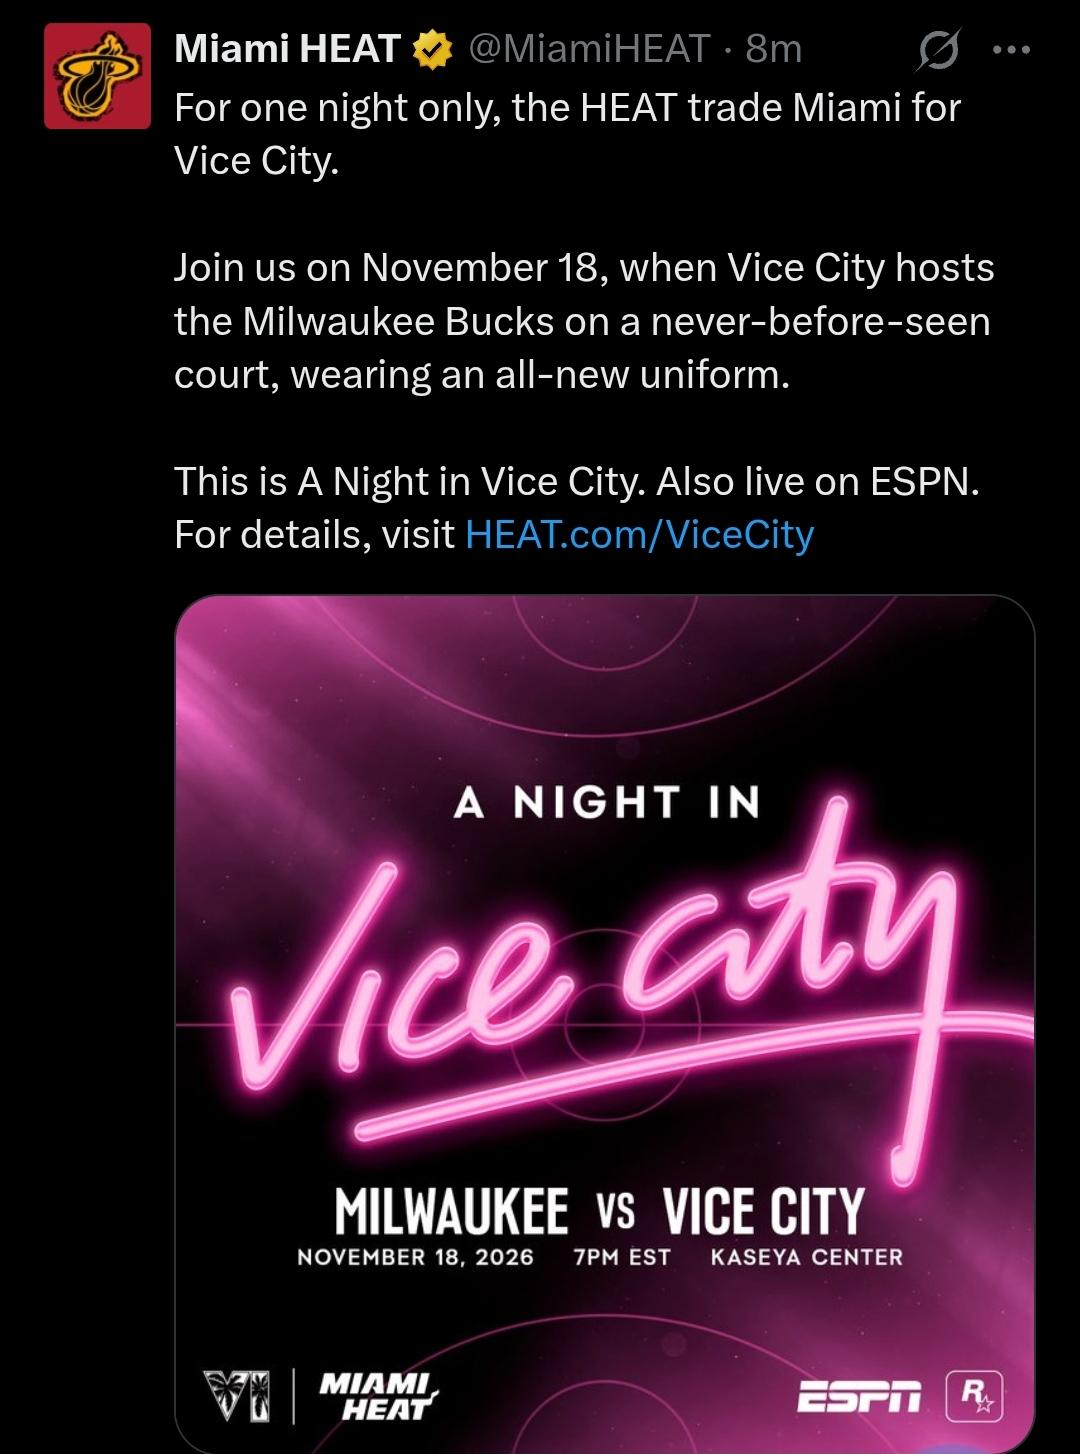
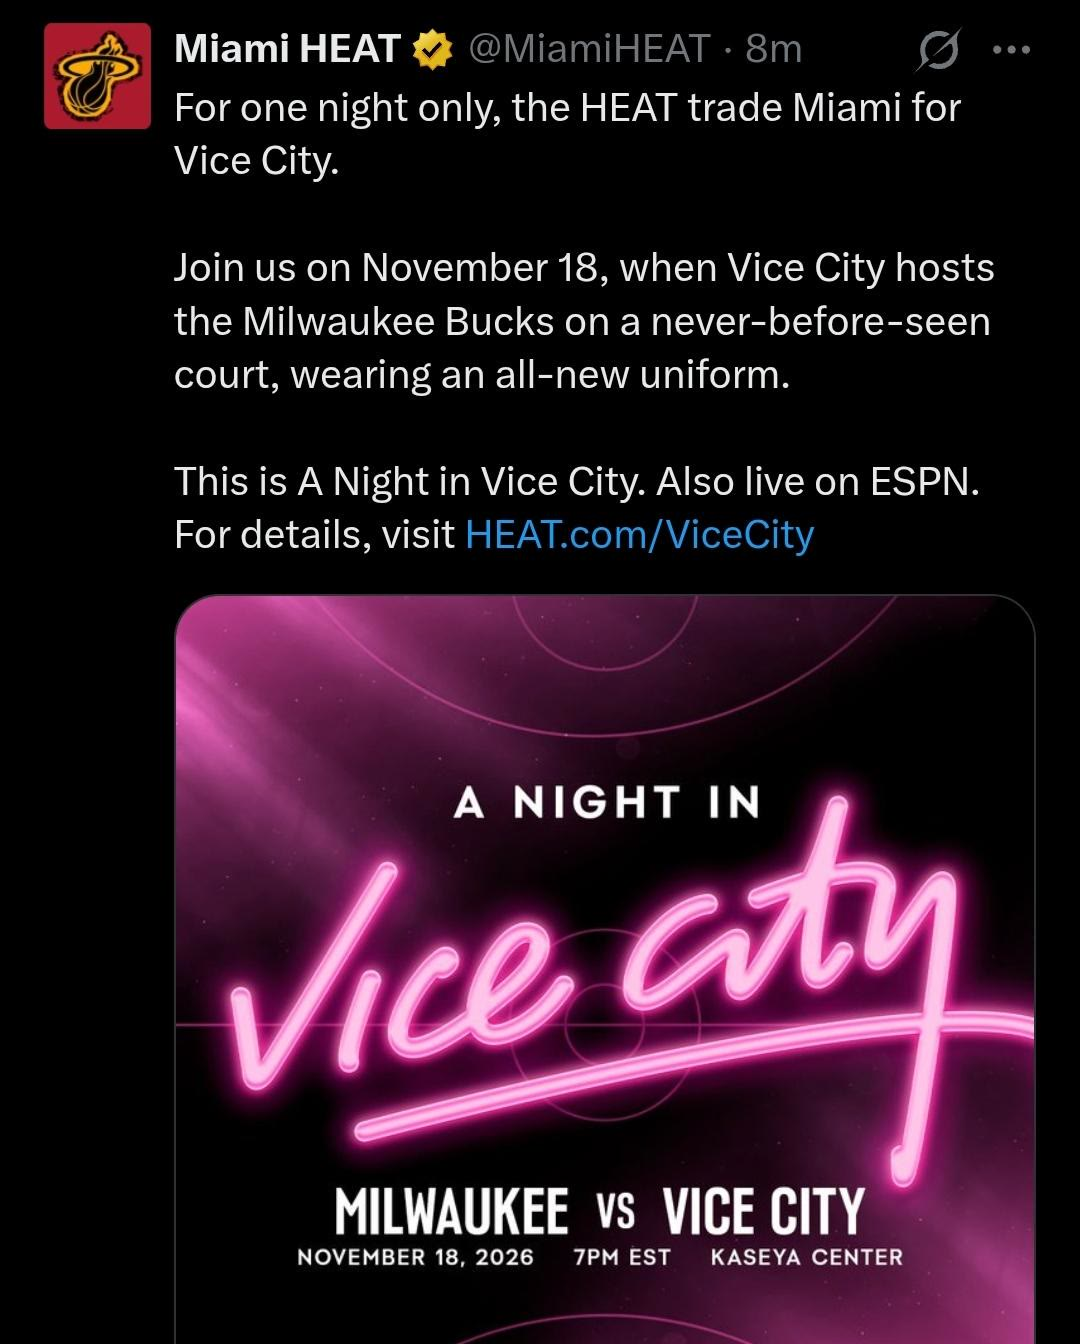
fix: replace Rockstar art and trailer stills in 24 card images
AGENTS.md allows no GTA logo, fonts or key art. 24 live cards showed
Rockstar cover or key art, GTA logos or GTA-font lettering, GTA or Red
Dead screenshots and HUD, or a trailer still. 22 now use a public-domain
or CC0 photo from Wikimedia Commons; the licence was read on each file
page. Two keep the meme post's own picture, cropped:
- gta6-before-milk: the jug and its NOV 20 date, without the GTA VI overlay.
- miami-heat-vice-city: the Heat's post, without its GTA VI and Rockstar logos.

Each image is at most 1600 px, and its alt text describes it.
candidates.json records each new source.

diff --git a/src/content/cards/flying-cars.md b/src/content/cards/flying-cars.md
@@ -4,10 +4,10 @@ blurb: "Tesla revealed a new Roadster on 15 October 2026; at the show the protot
 kind: "real-event"
 date: "2026-10-15"
 source: {"url":"https://x.com/WhiteHouse/status/2111239759246884981","platform":"x","engagement":"108,122 likes, 4.77M views"}
-imageAlt: "We got flying cars before GTA 6"
+imageAlt: "The SkyDrive SD-03 single-seat flying car on display at the Japan Mobility Show 2023"
 nsfw: false
 status: "launch"
 eventDate: "2026-10-15"
 factUrl: "https://hwbusters.com/news/tesla-roadster-flies-on-cold-gas-thrusters-at-its-reveal-and-production-is-pencilled-in-for-2028/"
-image: "../../assets/cards/flying-cars.webp"
+image: "../../assets/cards/flying-cars.jpg"
 ---

diff --git a/src/content/cards/madrid-derbies.md b/src/content/cards/madrid-derbies.md
@@ -4,10 +4,10 @@ blurb: "Atletico de Madrid's official account posted it on 21 February 2025, whe
 kind: "real-event"
 date: "2025-02-21"
 source: {"url":"https://x.com/atletienglish/status/1892901930969505840","platform":"x","engagement":"123K likes, 2.1M views"}
-imageAlt: "We got two more Madrid derbies before GTA 6"
+imageAlt: "Footballers in striped and white shirts at a 1919 Madrid derby"
 nsfw: false
 status: "launch"
 eventDate: "2025-02-21"
 factUrl: "https://en.wikipedia.org/wiki/2024%E2%80%9325_UEFA_Champions_League_knockout_phase"
-image: "../../assets/cards/madrid-derbies.webp"
+image: "../../assets/cards/madrid-derbies.jpg"
 ---

diff --git a/src/content/cards/ai-generated-gta.md b/src/content/cards/ai-generated-gta.md
@@ -4,10 +4,10 @@ blurb: "Dynamics Lab released Mirage in July 2025, a browser demo that generates
 kind: "real-event"
 date: "2025-07"
 source: {"url":"https://www.reddit.com/r/OpenAI/comments/1ly99fd/","platform":"reddit","engagement":"2,784 upvotes"}
-imageAlt: "We got an AI-generated GTA before GTA 6"
+imageAlt: "The downtown Los Angeles skyline at dusk, seen from Griffith Park"
 nsfw: false
 status: "launch"
 eventDate: "2025-07"
 factUrl: "https://www.gaming.net/inside-mirage-gamings-first-real-time-ai-generative-engine/"
-image: "../../assets/cards/ai-generated-gta.png"
+image: "../../assets/cards/ai-generated-gta.jpg"
 ---

diff --git a/src/content/cards/gta6-delays.md b/src/content/cards/gta6-delays.md
@@ -4,10 +4,10 @@ blurb: "Rockstar moved GTA 6 from autumn 2025 to 26 May 2026 (announced 2 May 20
 kind: "real-event"
 date: "2025-11-06"
 source: {"url":"https://x.com/DiscussingFilm/status/1918275510809083914","platform":"x","engagement":"87K likes, 2.8M views"}
-imageAlt: "We got two GTA 6 delays before GTA 6"
+imageAlt: "The departures and arrivals board in the TWA Flight Center at JFK Airport"
 nsfw: false
 status: "launch"
 eventDate: "2025-11-06"
 factUrl: "https://en.wikipedia.org/wiki/Grand_Theft_Auto_VI"
-image: "../../assets/cards/gta6-delays.webp"
+image: "../../assets/cards/gta6-delays.jpg"
 ---

diff --git a/src/content/cards/gta6-award.md b/src/content/cards/gta6-award.md
@@ -4,10 +4,10 @@ blurb: "GTA 6 won Most Anticipated Game at The Game Awards on 12 December 2024."
 kind: "real-event"
 date: "2024-12-12"
 source: {"url":"https://www.reddit.com/r/GTA/comments/1hd50ye/","platform":"reddit","engagement":"4,319 upvotes"}
-imageAlt: "We got GTA 6 winning an award before GTA 6"
+imageAlt: "Drawing of a man in a suit running up stairs to a gold trophy"
 nsfw: false
 status: "launch"
 eventDate: "2024-12-12"
 factUrl: "https://en.wikipedia.org/wiki/The_Game_Awards_2024"
-image: "../../assets/cards/gta6-award.png"
+image: "../../assets/cards/gta6-award.jpg"
 ---

diff --git a/src/content/cards/gta5-enhanced-pc.md b/src/content/cards/gta5-enhanced-pc.md
@@ -4,10 +4,10 @@ blurb: "PC players got the Enhanced version of GTA V as a free update on 4 March
 kind: "real-event"
 date: "2025-03-04"
 source: {"url":"https://www.reddit.com/r/rockstar/comments/1jfosmu/","platform":"reddit","engagement":"3,080 upvotes"}
-imageAlt: "We got GTA 5 Enhanced on PC before GTA 6"
+imageAlt: "A PNY GeForce 6600 GT graphics card"
 nsfw: false
 status: "launch"
 eventDate: "2025-03-04"
 factUrl: "https://en.wikipedia.org/wiki/Grand_Theft_Auto_V"
-image: "../../assets/cards/gta5-enhanced-pc.png"
+image: "../../assets/cards/gta5-enhanced-pc.jpg"
 ---

diff --git a/src/content/cards/white-house-saved-america.md b/src/content/cards/white-house-saved-america.md
@@ -4,8 +4,8 @@ blurb: "The official White House account posted the meme on 18 June 2026."
 kind: "joke"
 date: "2026-06-18"
 source: {"url":"https://x.com/WhiteHouse/status/2067649794705625135","platform":"x","engagement":"90,065 likes, 10.6M views"}
-imageAlt: "We really saved America before GTA 6"
+imageAlt: "A rainbow over the North Portico of the White House"
 nsfw: false
 status: "launch"
-image: "../../assets/cards/white-house-saved-america.webp"
+image: "../../assets/cards/white-house-saved-america.jpg"
 ---

diff --git a/src/content/cards/leverkusen-again.md b/src/content/cards/leverkusen-again.md
@@ -4,8 +4,8 @@ blurb: "Bayer Leverkusen's official account used the meme on 20 January 2025."
 kind: "joke"
 date: "2025-01-20"
 source: {"url":"https://x.com/bayer04_en/status/1881341913644908571","platform":"x","engagement":"51,248 likes, 859K views"}
-imageAlt: "We got this game again before GTA 6"
+imageAlt: "A football on a grass pitch, with players training behind it"
 nsfw: false
 status: "launch"
-image: "../../assets/cards/leverkusen-again.webp"
+image: "../../assets/cards/leverkusen-again.jpg"
 ---

diff --git a/src/content/cards/gta-7-before-gta-6.md b/src/content/cards/gta-7-before-gta-6.md
@@ -4,8 +4,8 @@ blurb: "Recurring joke since November 2023 that the sequel to GTA 6 will arrive 
 kind: "joke"
 date: "2023-11-08"
 source: {"url":"https://x.com/OvOBrezzzy/status/1722322332646010944","platform":"x","engagement":"48,887 likes, 4.13M views"}
-imageAlt: "We got GTA 7 before GTA 6"
+imageAlt: "The seven of hearts from an 1813 French deck of playing cards"
 nsfw: false
 status: "launch"
-image: "../../assets/cards/gta-7-before-gta-6.webp"
+image: "../../assets/cards/gta-7-before-gta-6.jpg"
 ---

diff --git a/src/content/cards/elder-scrolls-6.md b/src/content/cards/elder-scrolls-6.md
@@ -4,8 +4,8 @@ blurb: "Bethesda announced The Elder Scrolls VI in June 2018; it still has no re
 kind: "joke"
 date: "2026-09-06"
 source: {"url":"https://www.reddit.com/r/pcmasterrace/comments/1w90bot/","platform":"reddit","engagement":"2,157 upvotes"}
-imageAlt: "We got GTA 6 before The Elder Scrolls VI"
+imageAlt: "A grey stone dragon statue by the sea in Lima, Peru"
 nsfw: false
 status: "launch"
-image: "../../assets/cards/elder-scrolls-6.png"
+image: "../../assets/cards/elder-scrolls-6.jpg"
 ---

diff --git a/src/content/cards/miami-heat-vice-city.md b/src/content/cards/miami-heat-vice-city.md
@@ -4,7 +4,7 @@ blurb: "The Heat announced on 2 October 2026 that they will play as 'Vice City' 
 kind: "real-event"
 date: "2026-10-02"
 source: {"url":"https://www.reddit.com/r/GTA/comments/1wvtj0m/","platform":"reddit","engagement":"3,665 upvotes"}
-imageAlt: "We got the Miami Heat turning into Vice City before GTA 6"
+imageAlt: "The Miami Heat's post: A Night in Vice City, Milwaukee vs Vice City, 18 November 2026, Kaseya Center"
 nsfw: false
 status: "launch"
 eventDate: "2026-10-02"

diff --git a/src/content/cards/millennium-prize-problem.md b/src/content/cards/millennium-prize-problem.md
@@ -4,7 +4,7 @@ blurb: "OpenAI said on 8 September 2026 that its AI agents found a proof for the
 kind: "real-event"
 date: "2026-09-08"
 source: {"url":"https://www.reddit.com/r/physicsmemes/comments/1way84i/","platform":"reddit","engagement":"2,259 upvotes"}
-imageAlt: "We got a Millennium Prize Problem solved before GTA 6"
+imageAlt: "Red smoke curls into a vortex behind a plane's wingtip in a NASA wake study"
 nsfw: false
 status: "launch"
 eventDate: "2026-09-08"
